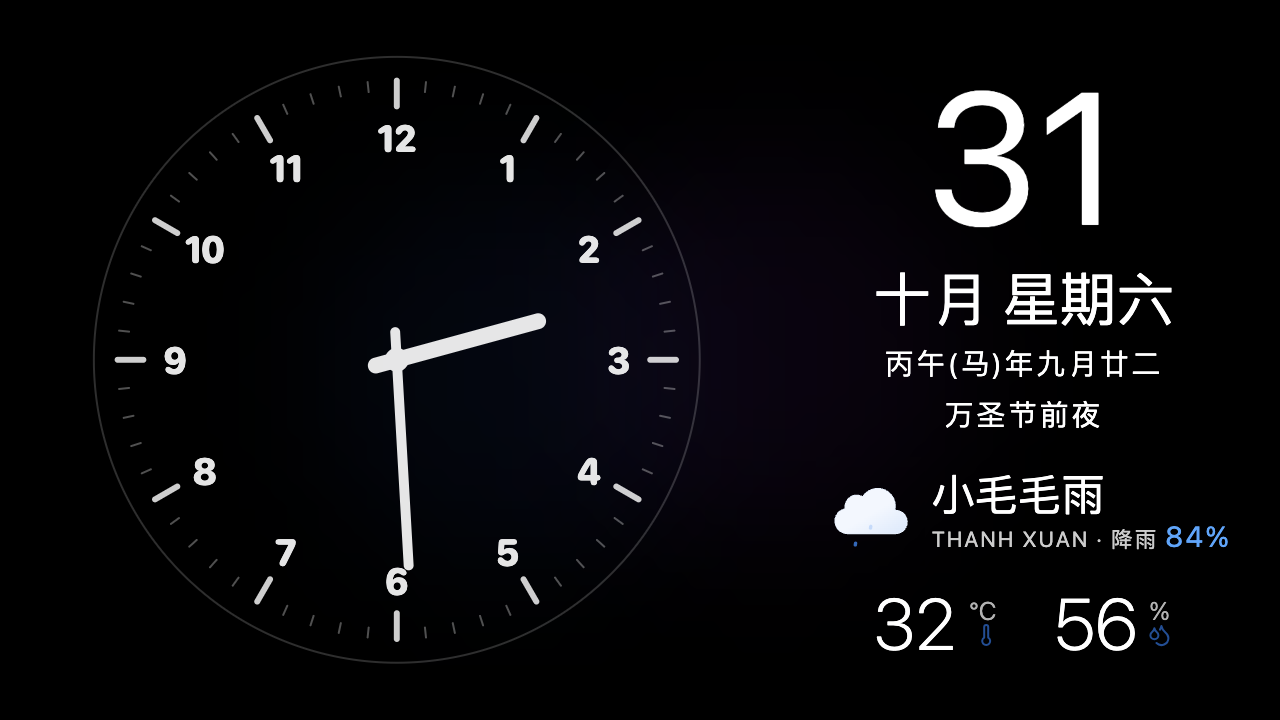
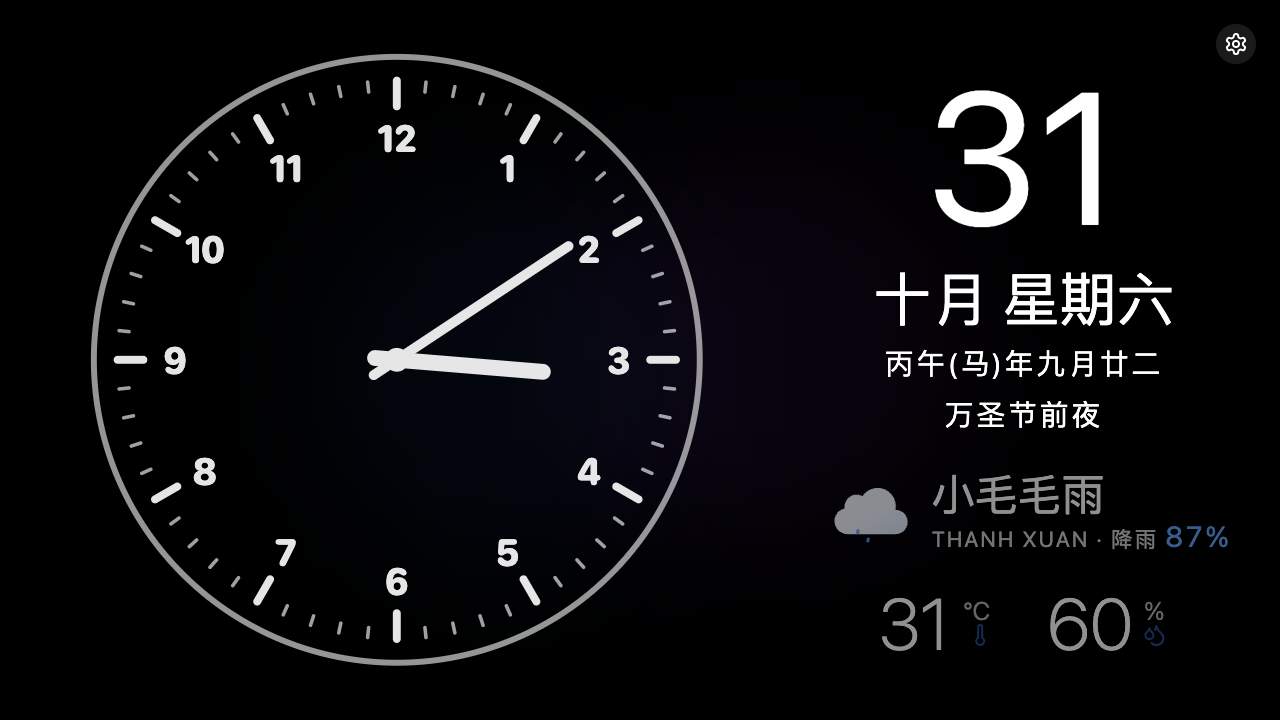
style: align analog clock and improve dial contrast

diff --git a/src/components/AnalogClock.vue b/src/components/AnalogClock.vue
@@ -38,14 +38,14 @@ const hourMarkers = Array.from({ length: 12 }, (_, index) => {
 </script>
 
 <template>
-  <svg class="analog-clock" :viewBox="showDigitalTime ? '0 0 760 320' : '0 0 320 320'" role="img" :aria-label="timeLabel">
-    <circle cx="160" cy="160" r="153" fill="none" stroke="currentColor" stroke-width="2" stroke-opacity="0.2" />
+  <svg class="analog-clock" :viewBox="showDigitalTime ? '0 0 800 320' : '0 0 320 320'" role="img" :aria-label="timeLabel">
+    <circle cx="160" cy="160" r="153" fill="none" stroke="currentColor" stroke-width="3" stroke-opacity="0.65" />
     <g stroke="currentColor" stroke-linecap="round">
       <line
         v-for="tick in 60" :key="tick"
         x1="160" y1="19" x2="160" :y2="tick % 5 === 0 ? 32 : 24"
-        :stroke-width="tick % 5 === 0 ? 3 : 1"
-        :opacity="tick % 5 === 0 ? 0.9 : 0.35"
+        :stroke-width="tick % 5 === 0 ? 4 : 1.8"
+        :opacity="tick % 5 === 0 ? 1 : 0.7"
         :transform="`rotate(${tick * 6} 160 160)`"
       />
     </g>
@@ -62,8 +62,8 @@ const hourMarkers = Array.from({ length: 12 }, (_, index) => {
     <circle cx="160" cy="160" r="6" fill="currentColor" />
     <text
       v-if="showDigitalTime"
-      class="analog-digital-time" x="550" y="160" dy="0.35em"
-      fill="currentColor" text-anchor="middle" :font-size="showSeconds ? 96 : 140"
+      class="analog-digital-time" x="570" y="160" dy="0.35em"
+      fill="currentColor" text-anchor="middle" :font-size="showSeconds ? 104 : 160"
     >
       {{ digitalTime }}
     </text>

diff --git a/src/views/ClockWeatherView.vue b/src/views/ClockWeatherView.vue
@@ -198,12 +198,36 @@ watch(idle, (newIdle) => {
   flex-shrink: 0;
 }
 
+.analog-mode .date-header {
+  justify-content: flex-start;
+  padding-left: 10%;
+}
+
+.analog-mode :deep(#weather-container) {
+  padding-left: 10%;
+}
+
+.analog-mode:not(.clock-only-mode) .analog-clock-display {
+  max-width: none;
+  /* Include the SVG's inset so the visible rim aligns with the other rows. */
+  padding-left: 9.2%;
+}
+
 .clock-only-mode .analog-clock-display {
   max-width: 200vh;
   margin: 0;
 }
 
 @media (orientation: portrait) {
+  .analog-mode .date-header {
+    justify-content: center;
+    padding-left: 0;
+  }
+
+  .analog-mode:not(.clock-only-mode) .analog-clock-display {
+    padding-left: 4vw;
+  }
+
   .analog-mode .date-header > div {
     flex-wrap: wrap;
     justify-content: center;

diff --git a/README.md b/README.md
@@ -254,6 +254,7 @@ http:
 
 - 新增左侧圆形表盘与右侧数字时间同步显示。
 - 放大右侧数字时间，统一表盘刻字与时间的字体、字重。
+- 对齐普通圆形模式的日期、表盘与天气左边距，加粗并提亮外圈和刻度。
 - 默认仅显示时、分，支持手动开启秒针和数字秒数。
 - 紧凑模式下的圆形表盘仅显示指针时钟，保留右侧日期与天气。
 - 兼容普通、紧凑和仅时钟模式，保留原有数字时钟样式。
